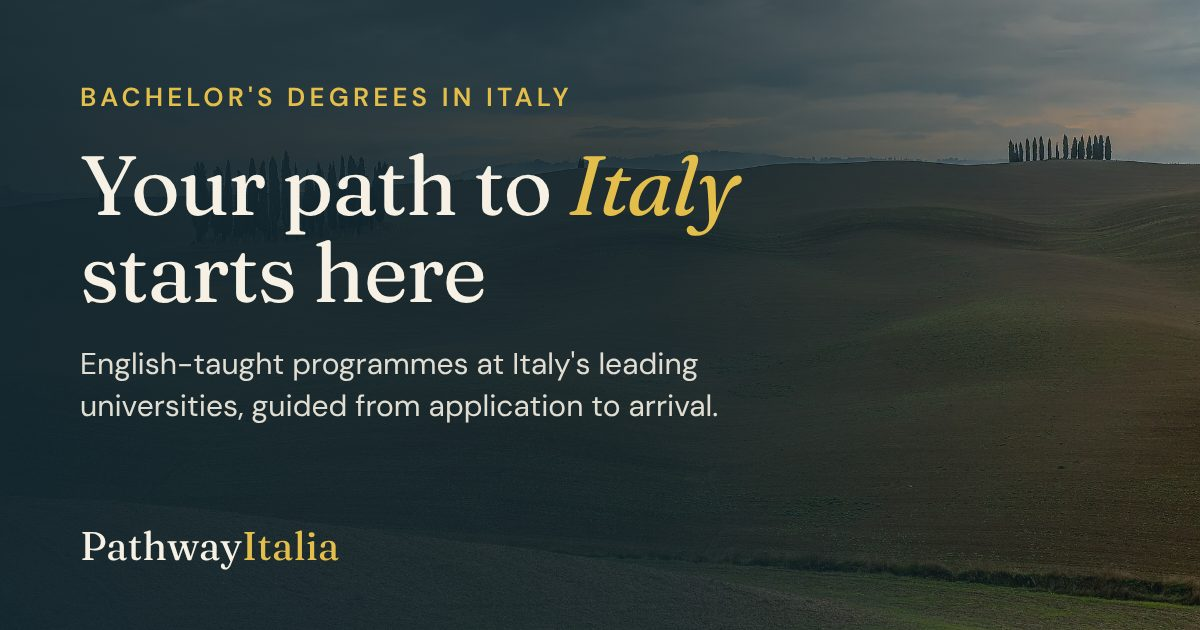
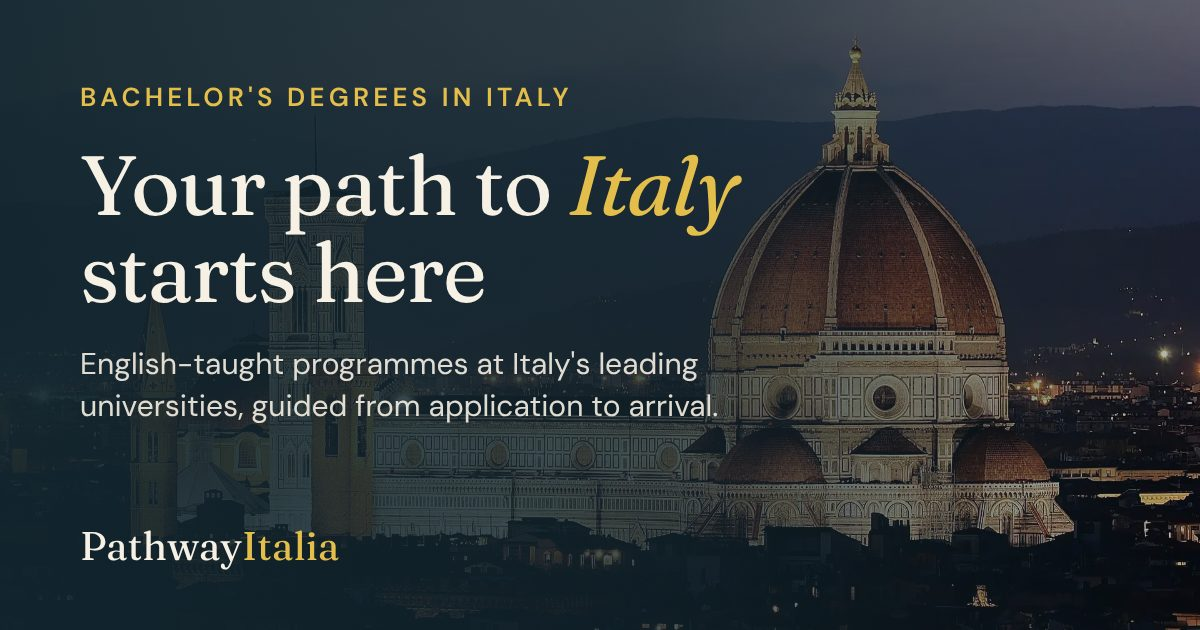
Use Florence Cathedral at dusk as homepage hero image
Replaces the Val d'Orcia photo with a warmer, more recognisably Italian
scene (Wikimedia Commons, CC BY-SA 4.0, credited). Regenerated the
Open Graph image to match and added a left-side gradient so the headline
stays legible.

Claude-Session: https://claude.ai/code/session_01HH1vAcHUQvTwPkmaZid9bY

diff --git a/src/routes/index.tsx b/src/routes/index.tsx
@@ -62,9 +62,10 @@ function Home() {
           height={hero.height}
           alt={hero.alt}
           fetchPriority="high"
-          className="absolute inset-0 h-full w-full object-cover"
+          className="absolute inset-0 h-full w-full object-cover object-[72%_center] lg:object-[60%_center]"
         />
-        <div className="absolute inset-0 bg-gradient-to-t from-ocean-deep/90 via-ocean-deep/45 to-ocean-deep/30" />
+        <div className="absolute inset-0 bg-gradient-to-t from-ocean-deep/90 via-ocean-deep/40 to-ocean-deep/30" />
+        <div className="absolute inset-0 bg-gradient-to-r from-ocean-deep/85 via-ocean-deep/45 to-transparent lg:via-ocean-deep/35" />
         <div className="container-page relative z-10 pb-16 pt-36 lg:pb-24">
           <p className="eyebrow eyebrow-on-dark">Bachelor's degrees in Italy</p>
           <h1 className="h-display mt-5 max-w-4xl text-ivory">

diff --git a/src/data/photos.ts b/src/data/photos.ts
@@ -189,13 +189,13 @@ export const photos = {
     lg: heroLg,
     sm: heroSm,
     width: 1920,
-    height: 1196,
-    alt: "Cypress trees on the hills of the Val d'Orcia, Tuscany",
-    caption: "Cypresses in the Val d'Orcia, Tuscany",
-    author: "Maurizio Moro5153",
+    height: 1392,
+    alt: "Florence Cathedral and its dome lit up at dusk, seen from Piazzale Michelangelo",
+    caption: "Florence Cathedral at dusk, from Piazzale Michelangelo",
+    author: "Petar Milošević",
     license: "CC BY-SA 4.0",
     licenseUrl: "https://creativecommons.org/licenses/by-sa/4.0/",
-    source: "https://commons.wikimedia.org/wiki/File:Cipressi_Val_D%27Orcia.jpg",
+    source: "https://commons.wikimedia.org/wiki/File:Florence_Duomo_from_Michelangelo_hill.jpg",
   },
   about: {
     lg: aboutLg,
